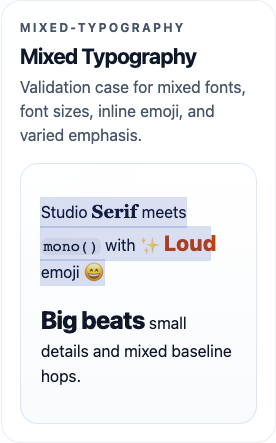
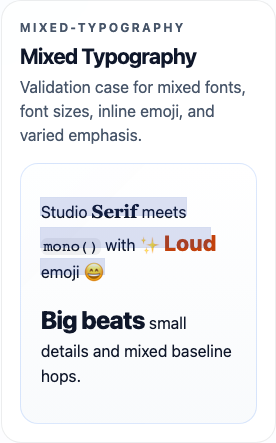
fix: tighten rich inline mixed typography geometry

Changed region(s): [[0.1449, 0.4695, 0.6957, 0.5282], [0.1449, 0.5576, 0.7826, 0.5869], [0.1449, 0.6163, 0.4058, 0.6456]]

diff --git a/packages/core/src/geometry/selection-geometry.ts b/packages/core/src/geometry/selection-geometry.ts
@@ -25,6 +25,7 @@ export interface SelectionGeometryRect {
 
 export interface SelectionGeometryBlock {
   blockIndex: number
+  originY: number
   rects: SelectionGeometryRect[]
 }
 
@@ -62,6 +63,24 @@ function getMeasureContext(
   const context = createMeasureContext(font)
   cache.set(font, context)
   return context
+}
+
+function measureFontBox(context: CanvasRenderingContext2D | null) {
+  if (context === null) {
+    return {
+      ascent: 0,
+      descent: 0
+    }
+  }
+
+  const metrics = context.measureText('Ay')
+  const ascent = metrics.actualBoundingBoxAscent
+  const descent = metrics.actualBoundingBoxDescent
+
+  return {
+    ascent: ascent > 0 ? ascent : 0,
+    descent: descent > 0 ? descent : 0
+  }
 }
 
 function measureUnitWidth(
@@ -217,8 +236,8 @@ function getCursorCodeUnitOffset(prepared: PreparedTextWithSegments, end: Layout
 
 function buildLineRectsFromBoundaries(
   block: NormalizedBlock,
-  lineTop: number,
-  lineHeight: number,
+  rectTop: number,
+  rectHeight: number,
   lineIndex: number,
   lineWidth: number,
   boundaries: Array<{
@@ -230,9 +249,9 @@ function buildLineRectsFromBoundaries(
     return [
       {
         x: 0,
-        y: lineTop,
+        y: rectTop,
         width: lineWidth,
-        height: lineHeight,
+        height: rectHeight,
         caretX: 0,
         position: resolveCaretPosition(block, 0),
         lineIndex,
@@ -249,9 +268,9 @@ function buildLineRectsFromBoundaries(
 
     return {
       x: left,
-      y: lineTop,
+      y: rectTop,
       width: Math.max(0, right - left),
-      height: lineHeight,
+      height: rectHeight,
       caretX: boundary.caretX,
       position: resolveCaretPosition(block, boundary.caretOffset),
       lineIndex,
@@ -295,7 +314,8 @@ function buildRichInlineRects(
         run,
         font,
         leadingTrim: trimmed.leadingTrim,
-        prepared: prepareWithSegments(trimmed.trimmedText, font)
+        prepared: prepareWithSegments(trimmed.trimmedText, font),
+        metrics: measureFontBox(getMeasureContext(contextCache, font))
       }
     })
 
@@ -314,6 +334,8 @@ function buildRichInlineRects(
     const boundaries: Array<{ caretX: number; caretOffset: number }> = []
     let x = 0
     let lineHeightForLine = block.lineHeight ?? options.lineHeight
+    let lineAscent = 0
+    let lineDescent = 0
 
     for (const fragment of line.fragments) {
       const preparedRun = runPrepared[fragment.itemIndex]
@@ -325,6 +347,8 @@ function buildRichInlineRects(
         lineHeightForLine,
         preparedRun.run.lineHeight ?? block.lineHeight ?? options.lineHeight
       )
+      lineAscent = Math.max(lineAscent, preparedRun.metrics.ascent)
+      lineDescent = Math.max(lineDescent, preparedRun.metrics.descent)
 
       x += fragment.gapBefore
       const units = Array.from(fragment.text)
@@ -357,8 +381,12 @@ function buildRichInlineRects(
     rects.push(
       ...buildLineRectsFromBoundaries(
         block,
-        lineTop,
-        lineHeightForLine,
+        lineAscent + lineDescent > 0
+          ? lineTop + Math.max(0, (lineHeightForLine - (lineAscent + lineDescent)) / 2)
+          : lineTop,
+        lineAscent + lineDescent > 0
+          ? Math.max(1, lineAscent + lineDescent)
+          : lineHeightForLine,
         lineIndex,
         line.width,
         boundaries
@@ -404,6 +432,7 @@ export function createSelectionGeometry(model: DocumentModel, options: GeometryO
       const rich = buildRichInlineRects(block, blockTop, options, fallbackWidth, contextCache)
       blocks.push({
         blockIndex,
+        originY: blockTop,
         rects: rich.rects
       })
       blockTop += rich.totalHeight
@@ -417,6 +446,7 @@ export function createSelectionGeometry(model: DocumentModel, options: GeometryO
     if (layout.lineCount === 0) {
       blocks.push({
         blockIndex,
+        originY: blockTop,
         rects: [
           {
             x: 0,
@@ -458,6 +488,7 @@ export function createSelectionGeometry(model: DocumentModel, options: GeometryO
 
     blocks.push({
       blockIndex,
+      originY: blockTop,
       rects
     })
 
